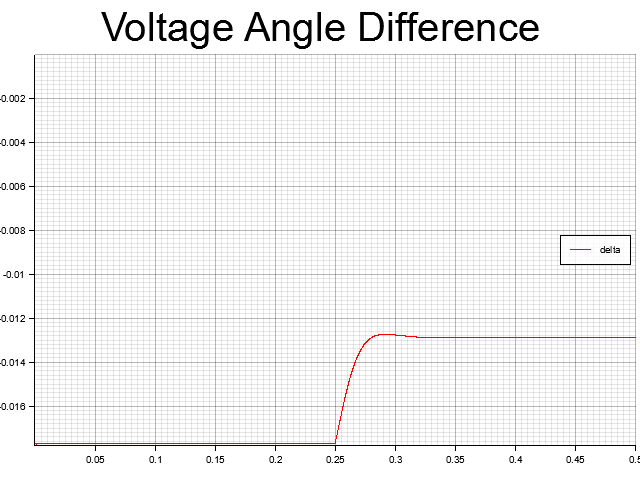
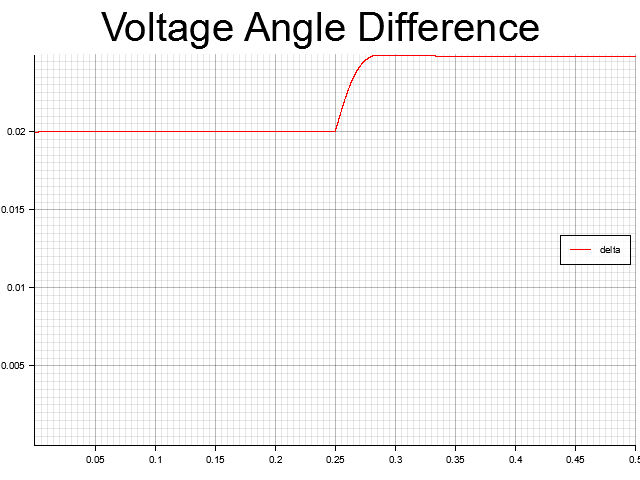
Add z^-1 delay for inverter output and fix angle initialization

Changed region(s): [[0.0, 0.0938, 1.0, 0.9375]]

diff --git a/src/bin/droop_sim.rs b/src/bin/droop_sim.rs
@@ -26,7 +26,7 @@ fn main() -> Result<(), Box<dyn std::error::Error>> {
     let mq: f32 = 0.005;
     let w_c: f32 = 2.*PI*30.;
     let mut inv = build_droop_controller(v_nom, w_nom, s_rated, mp, mq, w_c);
-    inv.x[(1)] = -dt * 0.47 * w_nom;  // Initialize inverter angle leading the grid angle by ~half a cycle to start closer to the digital equalibria
+    inv.x[(1)] = dt * 0.53 * w_nom;  // Initialize inverter angle leading the grid angle by ~half a cycle to start closer to the digital equalibria
     inv.x[(0)] = v_nom * 0.999965;  // Initialize inverter voltage slightly lower than nominal to start closer to the digital equalibria
 
     let rf = 0.8;
@@ -44,6 +44,7 @@ fn main() -> Result<(), Box<dyn std::error::Error>> {
     let steps: Vec<u32> = (0..n_steps+1).collect();
     let mut t: f32;
     let mut p: f32 = 0.; let mut q: f32 = 0.;
+    let mut delta: f32; let mut i_alpha_sample: f32; let mut i_beta_sample: f32;
     let mut v_values: Vec<(f32, f32)> = vec![(0., 0.); (n_steps+1) as usize];
     let mut theta_values: Vec<(f32, f32)> = vec![(0., 0.); (n_steps+1) as usize];
     let mut vg_values: Vec<(f32, f32)> = vec![(0., 0.); (n_steps+1) as usize];
@@ -66,7 +67,7 @@ fn main() -> Result<(), Box<dyn std::error::Error>> {
         thetag_values[step as usize] = (t, bus.x[(1)]);
         ia_values[step as usize] = (t, line.x[(0)]);
         ib_values[step as usize] = (t, line.x[(1)]);
-        let mut delta = inv.x[(1)] - bus.x[(1)];
+        delta = inv.x[(1)] - bus.x[(1)];
         if delta > PI {
             delta = -2.*PI + delta;
         } else if delta < -PI {
@@ -74,8 +75,9 @@ fn main() -> Result<(), Box<dyn std::error::Error>> {
         }
         delta_values[step as usize] = (t, delta);
 
-        // Step the controller
-        inv.step(dt, [line.x[(0)], line.x[(1)]]);
+        // Sample the current
+        i_alpha_sample = line.x[(0)];
+        i_beta_sample = line.x[(1)];
 
         // Step the system
         for n in 0..cont_n_steps {
@@ -87,18 +89,20 @@ fn main() -> Result<(), Box<dyn std::error::Error>> {
             q_values[(cont_n_steps*step + n) as usize] = (t + (n as f32)*cont_dt, q);
             bus.step_(cont_dt);
             line.step(cont_dt, [inv.x[(0)], inv.x[(1)], 
-                                  bus.x[(0)], bus.x[(1)]]);
+                                bus.x[(0)], bus.x[(1)]]);
         }
-    }
-    println!("v: {}, theta: {}", inv.x[(0)], inv.x[(1)]);
-    println!("ia: {}, ib: {}", line.x[(0)], line.x[(1)]);
-    println!("vg: {}, thetag: {}", bus.x[(0)], bus.x[(1)]);
-    println!("p: {}, q: {}", p, q);
+
+        // Step the controller after a z^-1 delay
+        inv.step(dt, [i_alpha_sample, i_beta_sample]);
+        }
+        println!("v: {}, theta: {}", inv.x[(0)], inv.x[(1)]);
+        println!("ia: {}, ib: {}", line.x[(0)], line.x[(1)]);
+        println!("vg: {}, thetag: {}", bus.x[(0)], bus.x[(1)]);
+        println!("p: {}, q: {}", p, q);
 
     /* 
     PLOTTING THE RESULTS
     */
-
     let v_values_ = v_values.to_vec();
     let theta_values_ = theta_values.to_vec();
     let vg_values_ = vg_values.to_vec();

diff --git a/src/main.rs b/src/main.rs
@@ -25,7 +25,7 @@ fn main() -> Result<(), Box<dyn std::error::Error>> {
     let xi: f32 = 15.;
     let c: f32 = 0.2679;
     let mut inv = build_dvoc_controller(v_nom, w_nom, s_rated, xi, c);
-    inv.x[(1)] = -dt * 0.47 * w_nom;  // Initialize inverter angle leading the grid angle by ~half a cycle to start closer to the digital equalibria
+    inv.x[(1)] = dt * 0.53 * w_nom;  // Initialize inverter angle leading the grid angle by ~half a cycle to start closer to the digital equalibria
     inv.x[(0)] = v_nom * 0.999965;  // Initialize inverter voltage slightly lower than nominal to start closer to the digital equalibria
 
     let rf = 0.8;
@@ -43,6 +43,7 @@ fn main() -> Result<(), Box<dyn std::error::Error>> {
     let steps: Vec<u32> = (0..n_steps+1).collect();
     let mut t: f32;
     let mut p: f32 = 0.; let mut q: f32 = 0.;
+    let mut delta: f32; let mut i_alpha_sample: f32; let mut i_beta_sample: f32;
     let mut v_values: Vec<(f32, f32)> = vec![(0., 0.); (n_steps+1) as usize];
     let mut theta_values: Vec<(f32, f32)> = vec![(0., 0.); (n_steps+1) as usize];
     let mut vg_values: Vec<(f32, f32)> = vec![(0., 0.); (n_steps+1) as usize];
@@ -65,7 +66,7 @@ fn main() -> Result<(), Box<dyn std::error::Error>> {
         thetag_values[step as usize] = (t, bus.x[(1)]);
         ia_values[step as usize] = (t, line.x[(0)]);
         ib_values[step as usize] = (t, line.x[(1)]);
-        let mut delta = inv.x[(1)] - bus.x[(1)];
+        delta = inv.x[(1)] - bus.x[(1)];
         if delta > PI {
             delta = -2.*PI + delta;
         } else if delta < -PI {
@@ -73,8 +74,9 @@ fn main() -> Result<(), Box<dyn std::error::Error>> {
         }
         delta_values[step as usize] = (t, delta);
 
-        // Step the controller
-        inv.step(dt, [line.x[(0)], line.x[(1)]]);
+        // Sample the current
+        i_alpha_sample = line.x[(0)];
+        i_beta_sample = line.x[(1)];
 
         // Step the system
         for n in 0..cont_n_steps {
@@ -88,6 +90,9 @@ fn main() -> Result<(), Box<dyn std::error::Error>> {
             line.step(cont_dt, [inv.x[(0)], inv.x[(1)], 
                                   bus.x[(0)], bus.x[(1)]]);
         }
+
+        // Step the controller after a z^-1 delay
+        inv.step(dt, [i_alpha_sample, i_beta_sample]);
     }
     println!("v: {}, theta: {}", inv.x[(0)], inv.x[(1)]);
     println!("ia: {}, ib: {}", line.x[(0)], line.x[(1)]);
